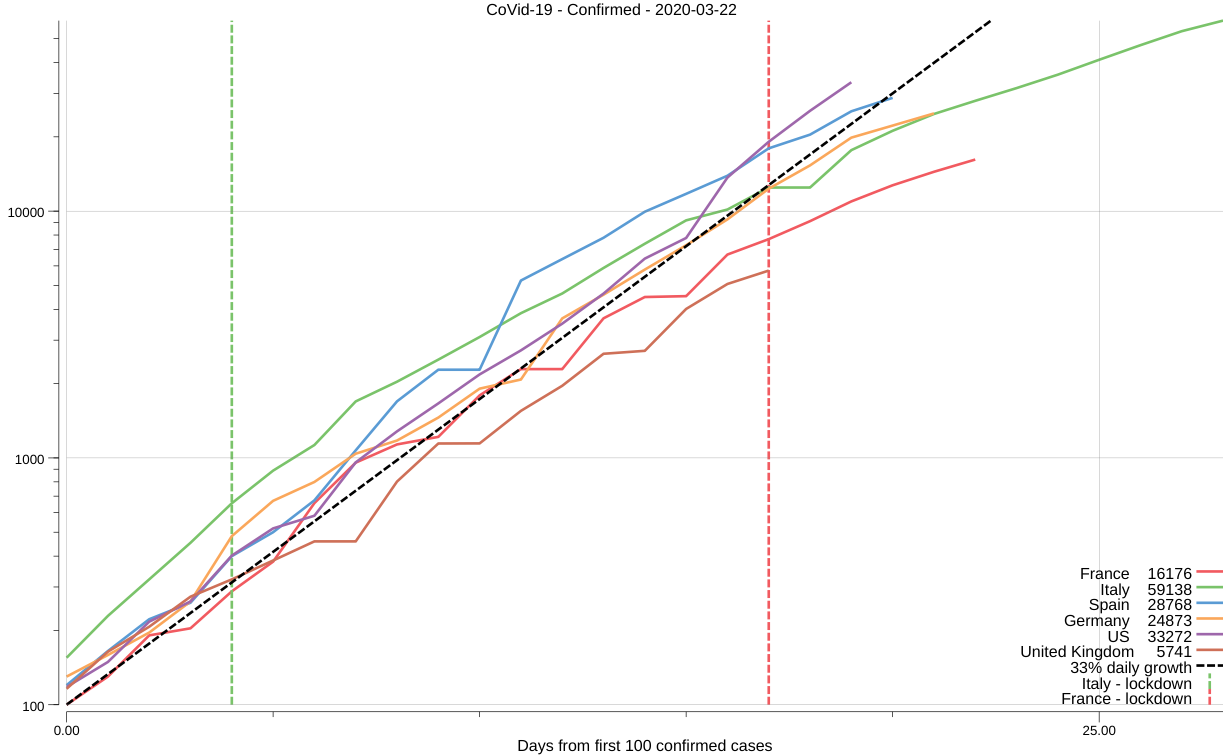
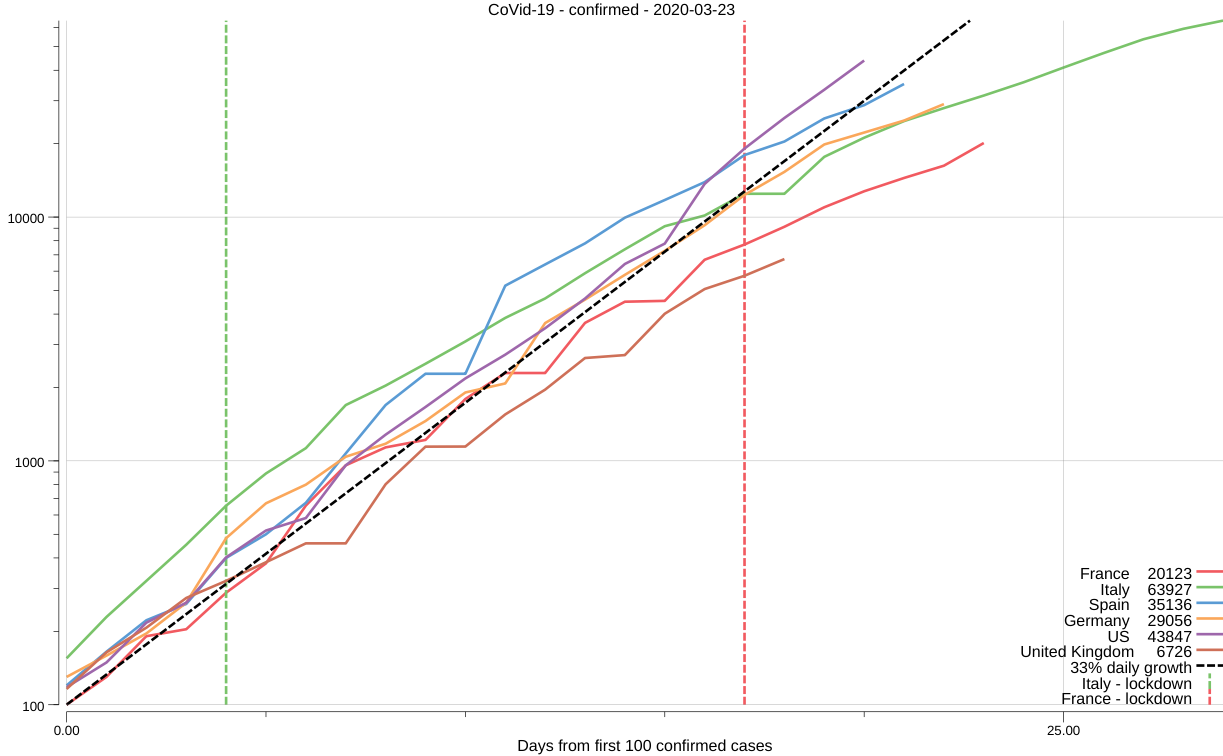
main: use new upstream data source/structure

diff --git a/main.go b/main.go
@@ -29,9 +29,13 @@ import (
 )
 
 func main() {
+	log.SetPrefix("covid19: ")
+	log.SetFlags(0)
+
 	http.HandleFunc("/", rootHandle)
-	http.HandleFunc("/img-confirmed", imgHandle("Confirmed", 100))
-	http.HandleFunc("/img-deaths", imgHandle("Deaths", 10))
+	http.HandleFunc("/img-confirmed", imgHandle("confirmed", 100))
+	http.HandleFunc("/img-deaths", imgHandle("deaths", 10))
+	log.Printf("ready to serve...")
 	http.ListenAndServe(":8080", nil)
 }
 
@@ -153,7 +157,7 @@ type Dataset struct {
 }
 
 func fetchData(title string, cutoff float64, countries []string) (Dataset, error) {
-	url := fmt.Sprintf("https://raw.githubusercontent.com/CSSEGISandData/COVID-19/master/csse_covid_19_data/csse_covid_19_time_series/time_series_19-covid-%s.csv", title)
+	url := fmt.Sprintf("https://raw.githubusercontent.com/CSSEGISandData/COVID-19/master/csse_covid_19_data/csse_covid_19_time_series/time_series_covid19_%s_global.csv", title)
 
 	var dataset = Dataset{
 		table:  make(map[string][]float64, len(countries)),
